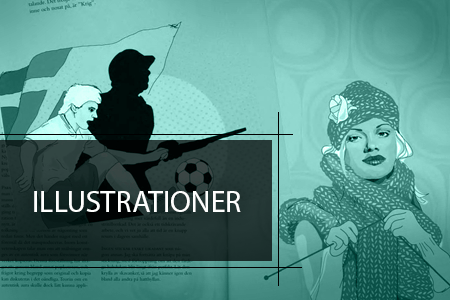
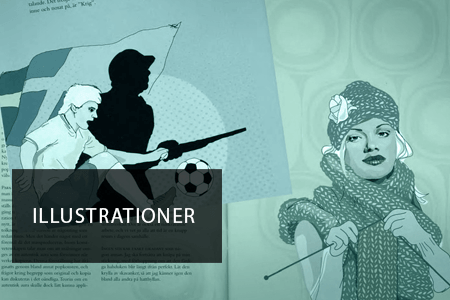
Skapat sida för projekt; kampanjer.

diff --git a/project3.html b/project3.html
@@ -1,0 +1,154 @@
+<!DOCTYPE html>
+<html lang="en">
+
+<head>
+    <meta charset="UTF-8">
+    <meta http-equiv="X-UA-Compatible" content="IE=edge">
+    <meta name="viewport" content="width=device-width, initial-scale=1.0">
+    <title>Kampanjer Portfolio Kristin Westergård tidigare erfarenhet</title>
+    <link rel="stylesheet" href="styles.css">
+</head>
+
+<body>
+    <!-- Header med navigation och länkar -->
+    <header>
+        <a href="index.html">
+            <img class="logo" src="images/logo.svg" alt="Kristin Westergård logo">
+        </a>
+        <nav>
+            <ul class="navLinks">
+                <li><a href="index.html">Work</a></li>
+                <li><a href="om_mig.html">Om mig</a></li>
+                <li><a href="kontakt.html">Kontakt</a></li>
+            </ul>
+        </nav>
+    </header>
+
+    <!-- Main med innehåll för Projekt 3
+    Inleds med en bild av projektet med en rubrik och ingress ovanpå-->
+
+    <main>
+        <section class="projekt_startbanner_kampanjer">
+
+            <div class="projekt_start_text">
+                <h1>Tidigare erfarenhet
+                    <br><span>Marknadsföring <br>& Digitala kampanjer</span>
+                </h1>
+                <p class="ingress_projekt">
+                    <br> <br>
+                </p>
+
+            </div>
+        </section>
+        <!-- Sektion med en inforuta om projektet. Flexparent med 3 children för de olika spalterna-->
+        <section class="projektinfo_ruta">
+            <div class="projektinfo_child1">
+                <h3> GRAFISK FORM / MEDIAPRODUCENT :</h3>
+                <p>   I min roll utformade jag marknadskampanjer för en stor variation branscher med personligt ansvar för egna kunder i en bred mix av kanaler.  
+                    <br>
+                    <hr class="linje_inforuta">
+                </p>
+            </div>
+            <div class="projektinfo_child2">
+                <h3>KAMPANJER :</h3>
+
+                <ul>
+                    <li>Digitala banners</li>
+                    <li>FB-kampanjer</li>
+                    <li>Webb-tv-prerolls</li>
+                    <li>Printannonser</li>
+                    <li> Landningssidor</li>
+                    <br>
+                </ul>
+                <br>
+                <hr class="linje_inforuta">
+
+            </div>
+            <div class="projektinfo_child3">
+                <h3>BOLAG:</h3>
+                <p> Bonnier (fd Mittmedia)</p>
+            </div>
+        </section>
+      
+
+        <!-- Olika typer av kampanjer beskrivs med en artikel för varje typ -->
+
+        <section class="projekt_artiklar_wrapper">
+            <article class="projekt_artikel_color3">
+                <h2>Digital <br> annonsering </h2>
+                <div class="projekt_container_text">
+                    <div class="projekt_text_spalt">
+                        <h3>Problem</h3>
+                        <p>Att handla hållbart upplevs svårt. Tilltron till vad företag själva lovar är låg. Och
+                            konsumenter vet ofta inte var de ska leta efter tillförlitlig information inför ett köp.</p>
+                    </div>
+                    <div>
+                        <img class="artikelbild_right" src="images/digitalakampanjer.jpg" alt="Digitala annonser för smycken, ge en del av häsingland i julklapp">
+                    </div>
+                </div>
+            </article>
+
+            <article class="projekt_artikel_color1">
+                <h2>Korta filmer</h2>
+                <div class="projekt_container_text">
+                <div class="projekt_text_spalt">
+                    <h3>Reklamfilmer och prerolls</h3>
+                    <p>Att handla hållbart upplevs svårt. Tilltron till vad företag själva lovar är låg. Och
+                        konsumenter vet ofta inte var de ska leta efter tillförlitlig information inför ett köp.</p>
+                </div>
+                
+                
+            </div>
+            </article>
+            
+            <article class="projekt_artikel_color1">
+            <div class="work2_youtube">
+                 
+                
+                <div class="w2_project_card">
+                    <div class="iframecontainer">
+                        <iframe src="https://www.youtube.com/embed/UIC1BNaLduo?loop=1" width="560" height="315" frameborder="0"></iframe>
+                    </div>
+                    <h3> <br> Preroll-film för Sjötelegrafen Galleria </h3>
+                    <p>Halloweenkampanj på Nynäshamnpostens nyhetssajt
+                        .</p>
+                    
+                </div>
+                <div class="w2_project_card">
+                    <div class="iframecontainer">
+                    <iframe width="560" height="315" src="https://www.youtube.com/embed/eJarwGDxZLI?controls=0" title="YouTube video player" frameborder="0" allow="accelerometer; autoplay; clipboard-write; encrypted-media; gyroscope; picture-in-picture" allowfullscreen></iframe>
+                </div>
+                </div>
+                
+                </article>
+
+                <article class="projekt_artikel_color2">
+                    <h2>Print- <br> annonsering </h2>
+                    <div class="projekt_container_text">
+                        <div class="projekt_text_spalt">
+                            <h3>Problem</h3>
+                            <p>Att handla hållbart upplevs svårt. Tilltron till vad företag själva lovar är låg. Och
+                                konsumenter vet ofta inte var de ska leta efter tillförlitlig information inför ett köp.</p>
+                        </div>
+                        <div>
+                            <img class="artikelbild_right" src="images/tidningsannons.png" alt="Digitala annonser för smycken, ge en del av häsingland i julklapp">
+                        </div>
+                    </div>
+                </article>
+            
+        </section>
+
+
+    </main>
+    <!-- Footer som avslutar sidorna-->
+    <footer>
+        <section class="footer">
+            <img src="images/logo.svg" alt="kristin westergård">
+            <a href="https://www.linkedin.com/in/kristin-westergård" target="_blank"><img src="images/linkedin.svg"
+                    alt="link for linkedin of kristin westergard"></a>
+        </section>
+
+    </footer>
+</body>
+
+</html>

diff --git a/styles.css b/styles.css
@@ -276,7 +276,13 @@ margin-top: 7px;
   background-repeat: no-repeat;
 }
 
-
+.projekt_startbanner_kampanjer {
+  position: relative;
+  margin: 15px auto 0;
+  max-width: 1150px;
+  background-image: url(images/kampanjer_start.jpg);
+  background-repeat: no-repeat;
+}
 
 .projekt_start_text {
   
@@ -387,8 +393,10 @@ padding-bottom: 8%;
 }
 .projekt_artikel_color2 {
   background-color: #cce0f9;
-  
-  
+}
+
+.projekt_artikel_color3 {
+  background-color: #f4f4f4;
 }
 
 .projekt_container_text {
@@ -426,6 +434,32 @@ padding-bottom: 8%;
     font-size: 23px;
     padding-bottom: 3%;
   }
+
+  .work2_youtube {
+    display: flex;
+    flex-direction: row;
+    flex-wrap: wrap;
+    flex: 1;
+    white-space: normal;
+    padding-left: 5%;
+  }
+ 
+  .iframecontainer {
+    position: relative;
+  width: 100%;
+  padding-bottom: 56.25%; 
+  height: 0;
+    
+  
+  }
+  .iframecontainer iframe{
+    position: absolute;
+    top:0;
+    left: 0;
+    width: 100%;
+    height: 100%;
+  }
+
 
 /*Sida Kontakt */
 .button {
@@ -607,9 +641,7 @@ a {
   }
 
   .projekt_start_text {
-    
-    min-height: 300px;
-    
+    min-height: 300px;   
   }
 
   .ingress_projekt {
@@ -621,11 +653,14 @@ a {
         max-width: 350px;
         padding: 30px;
       margin: 5% 5% 0 5%;
-        
+   
+      }
     
-    
-  }
+      .artikelbild_right{
+        width: 80%;
+      }
 
+     
   .projektinfo_ruta {
     flex-direction: column;
     width: 100%;
@@ -637,7 +672,15 @@ a {
     padding: 0 5% 4%;
   }
   
-  
+  .projekt_artiklar_wrapper{
+    width: 100%;
+    white-space: normal;
+  }
+  .projekt_artikel_color1, .projekt_artikel_color2, .projekt_artikel_color3{
+    flex-direction: column;
+    width: 100%;
+    white-space: normal;
+  }
 
   .projektinfo_ruta h3 {
     font-size: 17px;
@@ -658,16 +701,24 @@ a {
 
 
   .projekt_container_text {
-  display: inline-block;
+  display: block;
   }
 
   .projekt_artiklar_wrapper{
       width:100%;
-
+      white-space: normal;
   }
   .projekt_artiklar_wrapper h2{
     font-size: 40px;
 }
+/*(mobilvy) projektsida -  kampanjer */
+.projekt_startbanner_kampanjer{
+width: 100%;
+}
+.work2_youtube{
+    width: fit-content;    
+}
+
 
   /*(mobilvy) Footer*/
   footer {
@@ -686,9 +737,26 @@ a {
     }
 }
 
-/*- skärmar smalare än 1800px */
-@media only screen and (max-width: 1800px) {
-  .projektgrupp {
-   
+/*- skärmar smalare än 900px */
+@media only screen and (max-width: 900px) {
+  
+/*- projektsidor */
+  .projekt_container_text {
+    display: block;
+    }
+
+    .projekt_text_spalt {
+      max-width: 460px;
+      white-space: normal;
+      margin-right: 6%;
+    }
+    .projekt_artiklar_wrapper{
+      width:100%;
+      white-space: normal;
   }
+  .artikelbild_right{
+    width: 80%;
+  }
+   
+  
 }

diff --git a/project1.html b/project1.html
@@ -5,7 +5,7 @@
     <meta charset="UTF-8">
     <meta http-equiv="X-UA-Compatible" content="IE=edge">
     <meta name="viewport" content="width=device-width, initial-scale=1.0">
-    <title>Projekt 1 Portfolio Kristin Westergård</title>
+    <title>UX projekt 1 Portfolio Kristin Westergård Hållbara köpguiden</title>
     <link rel="stylesheet" href="styles.css">
 </head>
 
@@ -88,11 +88,11 @@
                 <div class="projekt_container_text">
                 <div class="projekt_text_spalt">
                     <h3>Design thinking i fem faser</h3>
-                    <p>Att handla hållbart upplevs svårt. Tilltron till vad företag själva lovar är låg. Och
-                        konsumenter vet ofta inte var de ska leta efter tillförlitlig information inför ett köp.</p>
+                    <p>Att handla hållbart upplevs svårt. Tilltron till vad företag själva lovar är låg.
+                        Konsumenter vet ofta inte var de ska leta efter tillförlitlig information inför ett köp.</p>
                 </div>
                 <div>
-                    <img src="images/designprocess.png" alt="bild som beskriver de fem olika faserna av projektet">
+                    <img class="artikelbild_right" src="images/designprocess.png" alt="bild som beskriver de fem olika faserna av projektet">
                 </div>
             </div>
             </article>

diff --git a/index.html b/index.html
@@ -51,10 +51,11 @@
                     <h3>UX Case study - Hållbara köpguiden</h3>
                     <p>text text text text text text text Lorem tex tejkjkjd dddkjkdd dddkjkj dddkjkddj krjhkjhjkhkjs
                     kjkjkjkjkjk kkjjkj djdsls.
-        .</p></div>
+        .</p>
+    </div>
                 </div>
                 <div class="w2_project_card">
-                    B
+                    <img src="images/projekt_snart_thumb.jpg" alt="">
                 </div>
                 
                  <!-- <div class="w2_project_card">
@@ -70,7 +71,7 @@
                 </div>
                 <div class="work2">
                     <div class="w2_project_card">
-                        <a href="#">
+                        <a href="project3.html">
                             <img src="images/kampanjer_thumb.png" class="project_thumb"
                                 onmouseover="this.src=`images/kampanjer_thumb_hover.png`"
                                 onmouseout="this.src=`images/kampanjer_thumb.png`" alt="Kampanjer och marknadsföring">

diff --git a/script.js b/script.js
@@ -1,11 +1,11 @@
 function overLinkedIn(mOver){
-    mOver.innerHTML = "LinkedIn i ny flik";
+    mOver.innerHTML = "LinkedIn öppnas i ny flik";
 }
 function outLinkedIn(mOver){
     mOver.innerHTML = "Kontakta mig på LinkedIn";
 }
 function overMail(mOver){
-    mOver.innerHTML = "Mail-applikation öppnas";
+    mOver.innerHTML = "Öppnar mailklient";
 }
 
 function outMail(mOver){
